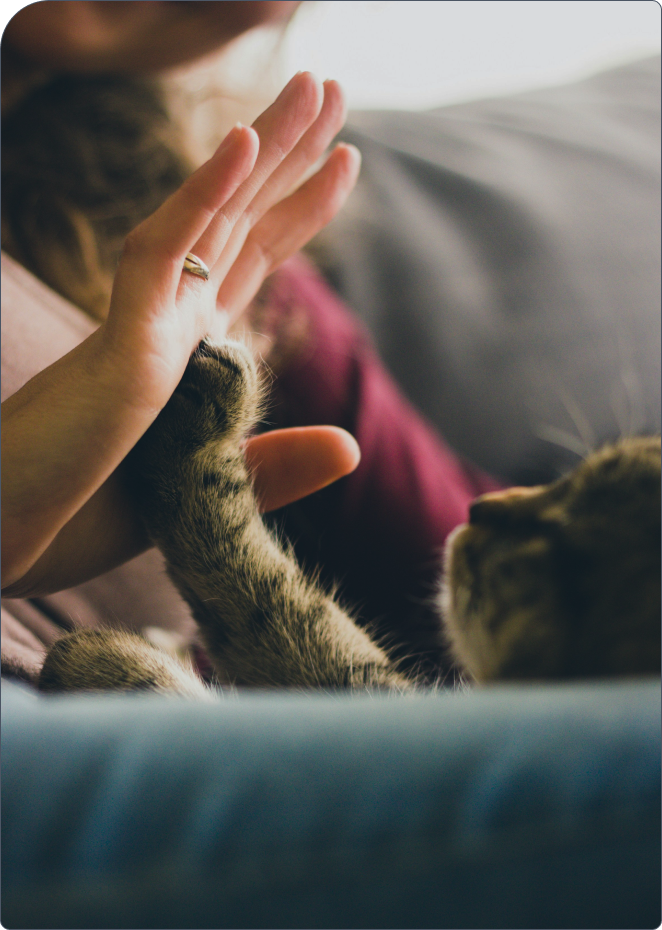
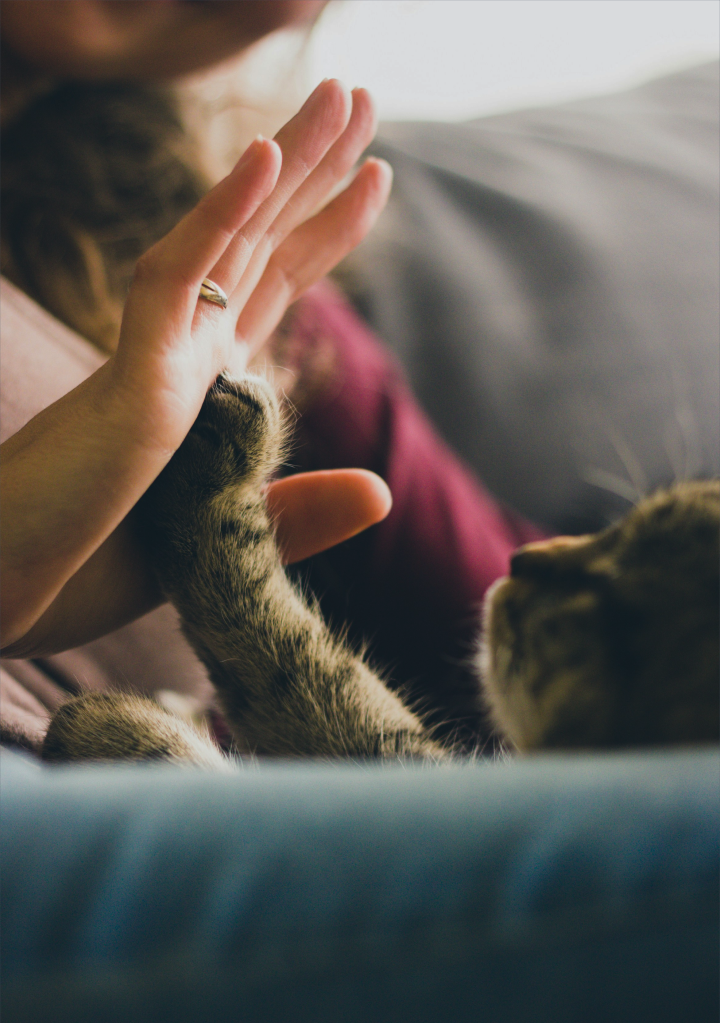
Finishing SignIn, SignUp and continuing Home

Changed region(s): [[0.0, 0.8108, 1.0, 1.0], [0.997, 0.0, 1.0, 0.7796], [0.0, 0.0, 0.0604, 0.0624]]

diff --git a/src/pages/SignIn/index.jsx b/src/pages/SignIn/index.jsx
@@ -1,8 +1,11 @@
-import { Container, Title, Form, Logo, Cat,Content} from './styles';
+import { Container, Title, Form, Logo, Cat,Content,Linha} from './styles';
 import AdopetImg from '../../assets/images/AdopetLogo.svg';
 import CatImg from '../../assets/images/CatImage.png';
 import { Button } from '../../components/Button';
 import { Input } from '../../components/Input';
+import {FaUser, FaLock  } from "react-icons/fa";
+
+
 
 export const SignIn = () => {
   return (
@@ -11,10 +14,12 @@ export const SignIn = () => {
         <Content>
         <Title>Acesse sua conta</Title>
             <Form>
-              <Input type="email" placeholder="E-mail" />
-              <Input type="password" placeholder="Senha" />
+              <Input type="email" placeholder="E-mail" icon={FaUser}/>
+              <Input type="password" placeholder="Senha"icon={FaLock }/>
               <Button title="Entrar" type="submit"/>
               <a href=''>Esqueceu sua senha?</a>
+              <Linha href=''>Ou</Linha>
+              <a href=''>Crie sua Conta</a>
             </Form>
         </Content>
       <Cat src={CatImg} alt="Imagem de um gato" />

diff --git a/src/pages/SignIn/styles.js b/src/pages/SignIn/styles.js
@@ -21,7 +21,9 @@ export const Content = styled.div`
 
 export const Logo = styled.img`
   align-self: flex-start;
-  margin:0;
+  margin-left:50px;
+  margin-top:50px
+  
 `;
 
 export const Title = styled.h1`
@@ -39,8 +41,29 @@ export const Form = styled.form`
 
 export const Cat = styled.img`
   width: fit-content;
-  height: 91vh;
-  margin-right: 30px;
-  margin-top: 30px;
-  margin-bottom:20px;
+  height: 100vh;
 `;
+
+export const Linha = styled.a`
+    position: relative;
+    display: inline-block;
+    text-align: center;
+
+    &::before,
+    &::after {
+        content: "";
+        position: absolute;
+        top: 50%;
+        width: 180px; // Ajuste este valor para alterar o comprimento da linha
+        height: 1px; // Ajuste este valor para alterar a espessura da linha
+        background: black; // Ajuste este valor para alterar a cor da linha
+    }
+
+    &::before {
+        left: -60px; // Ajuste este valor para alterar a distância da linha ao texto
+    }
+
+    &::after {
+        right: -60px; // Ajuste este valor para alterar a distância da linha ao texto
+    }
+`

diff --git a/src/components/Header/styles.js b/src/components/Header/styles.js
@@ -1,17 +1,27 @@
 import styled from "styled-components";
+import { FaUser } from "react-icons/fa";
 
 export const Container = styled.header`
-
     width: 100%;
-    margin: 10px 90px;
-
 `
 
 export const Content = styled.div`
-gap: 200px;
-padding: 20px;
-display: flex;
-align-items: center;
+    gap: 250px;
+    padding: 20px;
+    display: flex;
+    align-items: center;
+    margin-left:300px;
+
+    position: relative;
+    ::after {
+        content: "";
+        position: absolute;
+        left: 0;
+        bottom: 0;
+        height: 1px;
+        width: calc(100% - 335px);
+        background: #4B5563;
+    }
 `
 
 export const Navigation = styled.nav`
@@ -64,3 +74,8 @@ font-size: 20px;
     cursor: pointer;
 }
 `
+
+export const UserIcon = styled(FaUser)`
+margin-top:11px;
+font-size: 25px;
+`;

diff --git a/src/pages/Home/index.jsx b/src/pages/Home/index.jsx
@@ -1,7 +1,8 @@
 import { Container, Content } from "./styles"
 import { Header } from "../../components/Header"
-import { Title, HomeText, ButtonFinder, ColoredWord, CallMessage, Buttons } from './styles';
+import { Title, HomeText, ButtonFinder, ColoredWord, CallMessage, Buttons, HomeImage } from './styles';
 import { FiPhone } from "react-icons/fi";
+import DogImageRight from '../../assets/images/DogImageRight.png';
 
 
 export function Home() {
@@ -18,6 +19,7 @@ export function Home() {
                     <ButtonFinder>PetFinder ↗</ButtonFinder><CallMessage><a><FiPhone/> Agende uma ligação</a></CallMessage>
                     </Buttons>
                 </HomeText>
+                <HomeImage src={DogImageRight} alt="Descrição da imagem" />
             </Content>
         </Container>
     )

diff --git a/src/components/Header/index.jsx b/src/components/Header/index.jsx
@@ -1,6 +1,5 @@
-import { Container, Content, Icon, Navigation } from "./styles";
+import { Container, Content, Icon, Navigation,UserIcon } from "./styles";
 import AdopetImg from '../../assets/images/AdopetLogo.svg';
-import { FaUser } from "react-icons/fa6";
 
 export function Header() {
     return (
@@ -18,7 +17,7 @@ export function Header() {
                     </ul>
                 </Navigation>
                 <Icon>
-                    <FaUser />
+                    <UserIcon/>
                 </Icon>
             </Content>
         </Container>

diff --git a/src/pages/Home/styles.js b/src/pages/Home/styles.js
@@ -11,9 +11,9 @@ export const Content = styled.div`
   overflow: hidden;
 `
 export const HomeText = styled.div`
-margin-top: 120px;
+margin-top: 40px;
 text-align: left;
-margin-left: 125px;
+margin-left: 150px;
 width: 50%;
 
 > p {
@@ -26,6 +26,11 @@ export const Title = styled.h1`
 font-family: 'Poppins', SemiBold;
 font-weight: 600;
   font-size: 40px;
+`;
+
+export const HomeImage = styled.img`
+  width: 25vw;
+  margin-top:10px;
 `;
 
 export const ButtonFinder = styled.button`

diff --git a/src/main.jsx b/src/main.jsx
@@ -2,12 +2,12 @@ import React from 'react';
 import ReactDOM from 'react-dom/client';   
 import GlobalStyle from './styles/global';
 
-import { Home } from './pages/Home';
+import { SignIn } from './pages/SignIn';
 
 ReactDOM.createRoot(document.getElementById('root')).render(
   <React.StrictMode>
     <GlobalStyle />
-    <Home/>
+    <SignIn/>
   </React.StrictMode>,
 )
 

diff --git a/src/pages/SignUp/styles.js b/src/pages/SignUp/styles.js
@@ -21,14 +21,13 @@ export const Content = styled.div`
 export const Logo = styled.img`
   align-self: flex-start;
   margin:0;
+  margin-left:50px;
+  margin-top:50px;
 `;
 
 export const Cat = styled.img`
   width: fit-content;
-  height: 91vh;
-  margin-right: 30px;
-  margin-top: 30px;
-  margin-bottom:20px;
+  height: 100vh;
 `;
 
 export const Title = styled.h1`

diff --git a/src/styles/global.js b/src/styles/global.js
@@ -26,6 +26,7 @@ export default createGlobalStyle`
     button, a{
         cursor: pointer;
         transition: filter 0.2s;
+        color: #212427;
     }
 
     button:hover{
